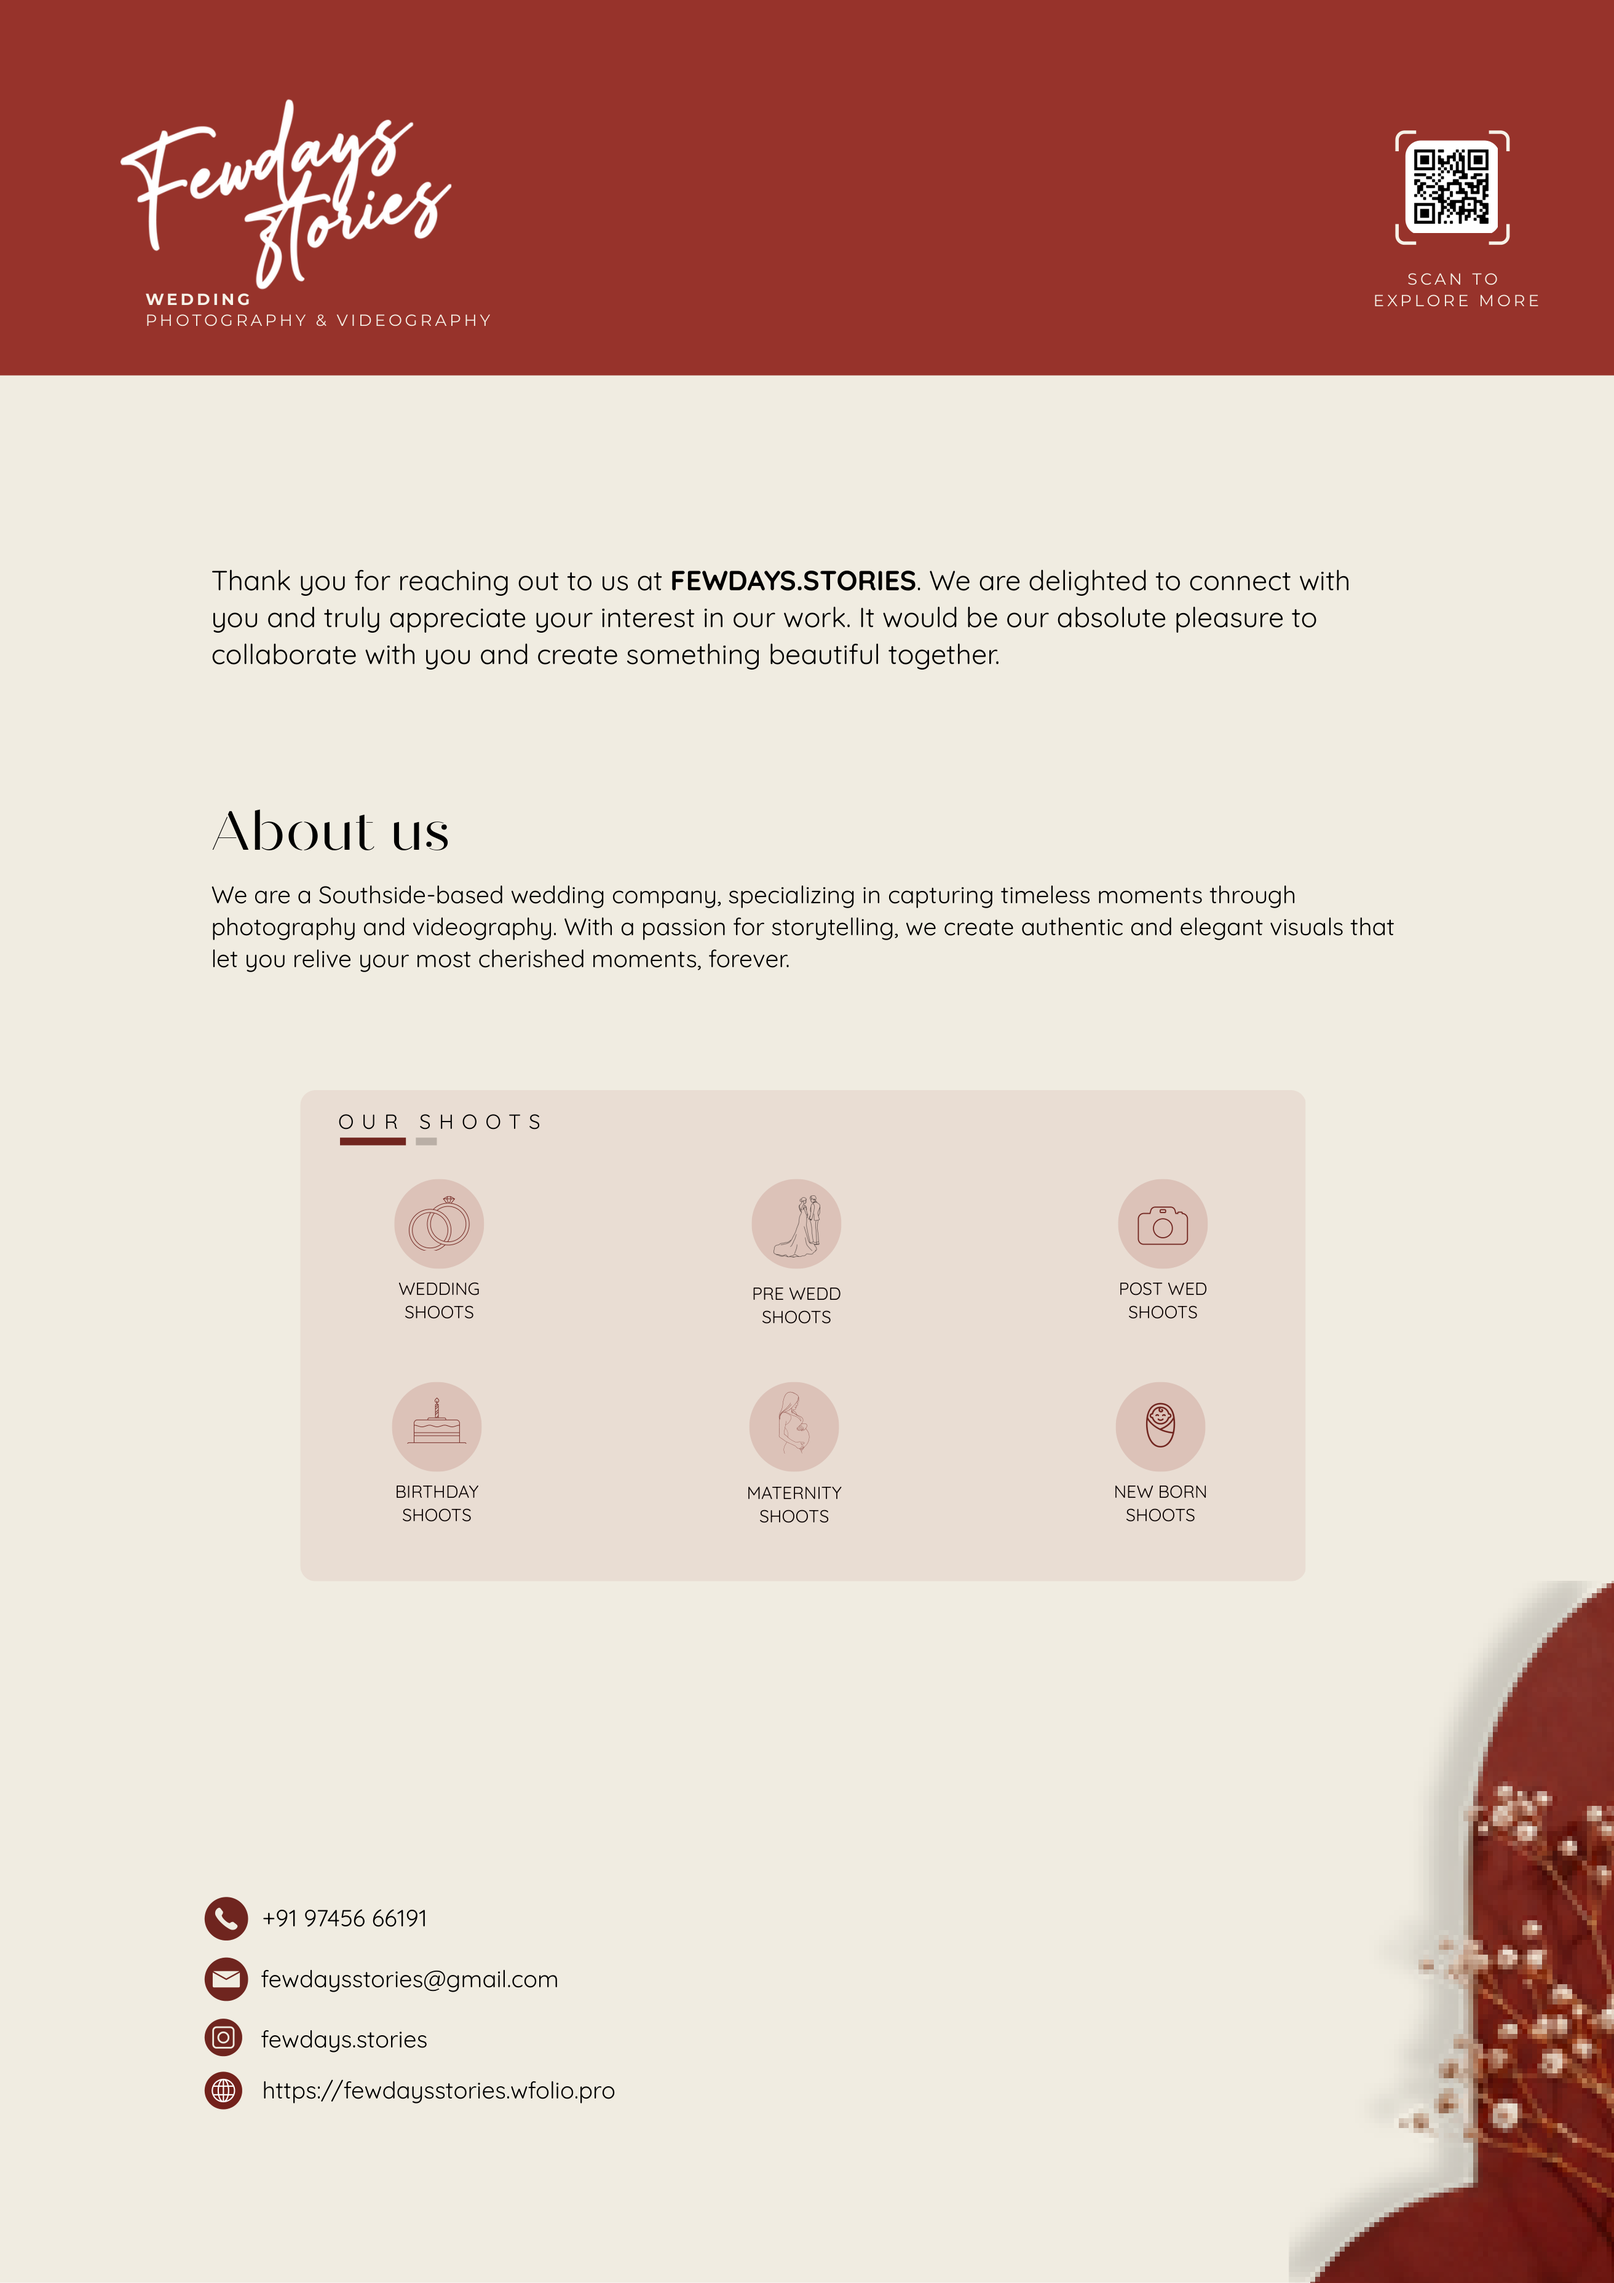
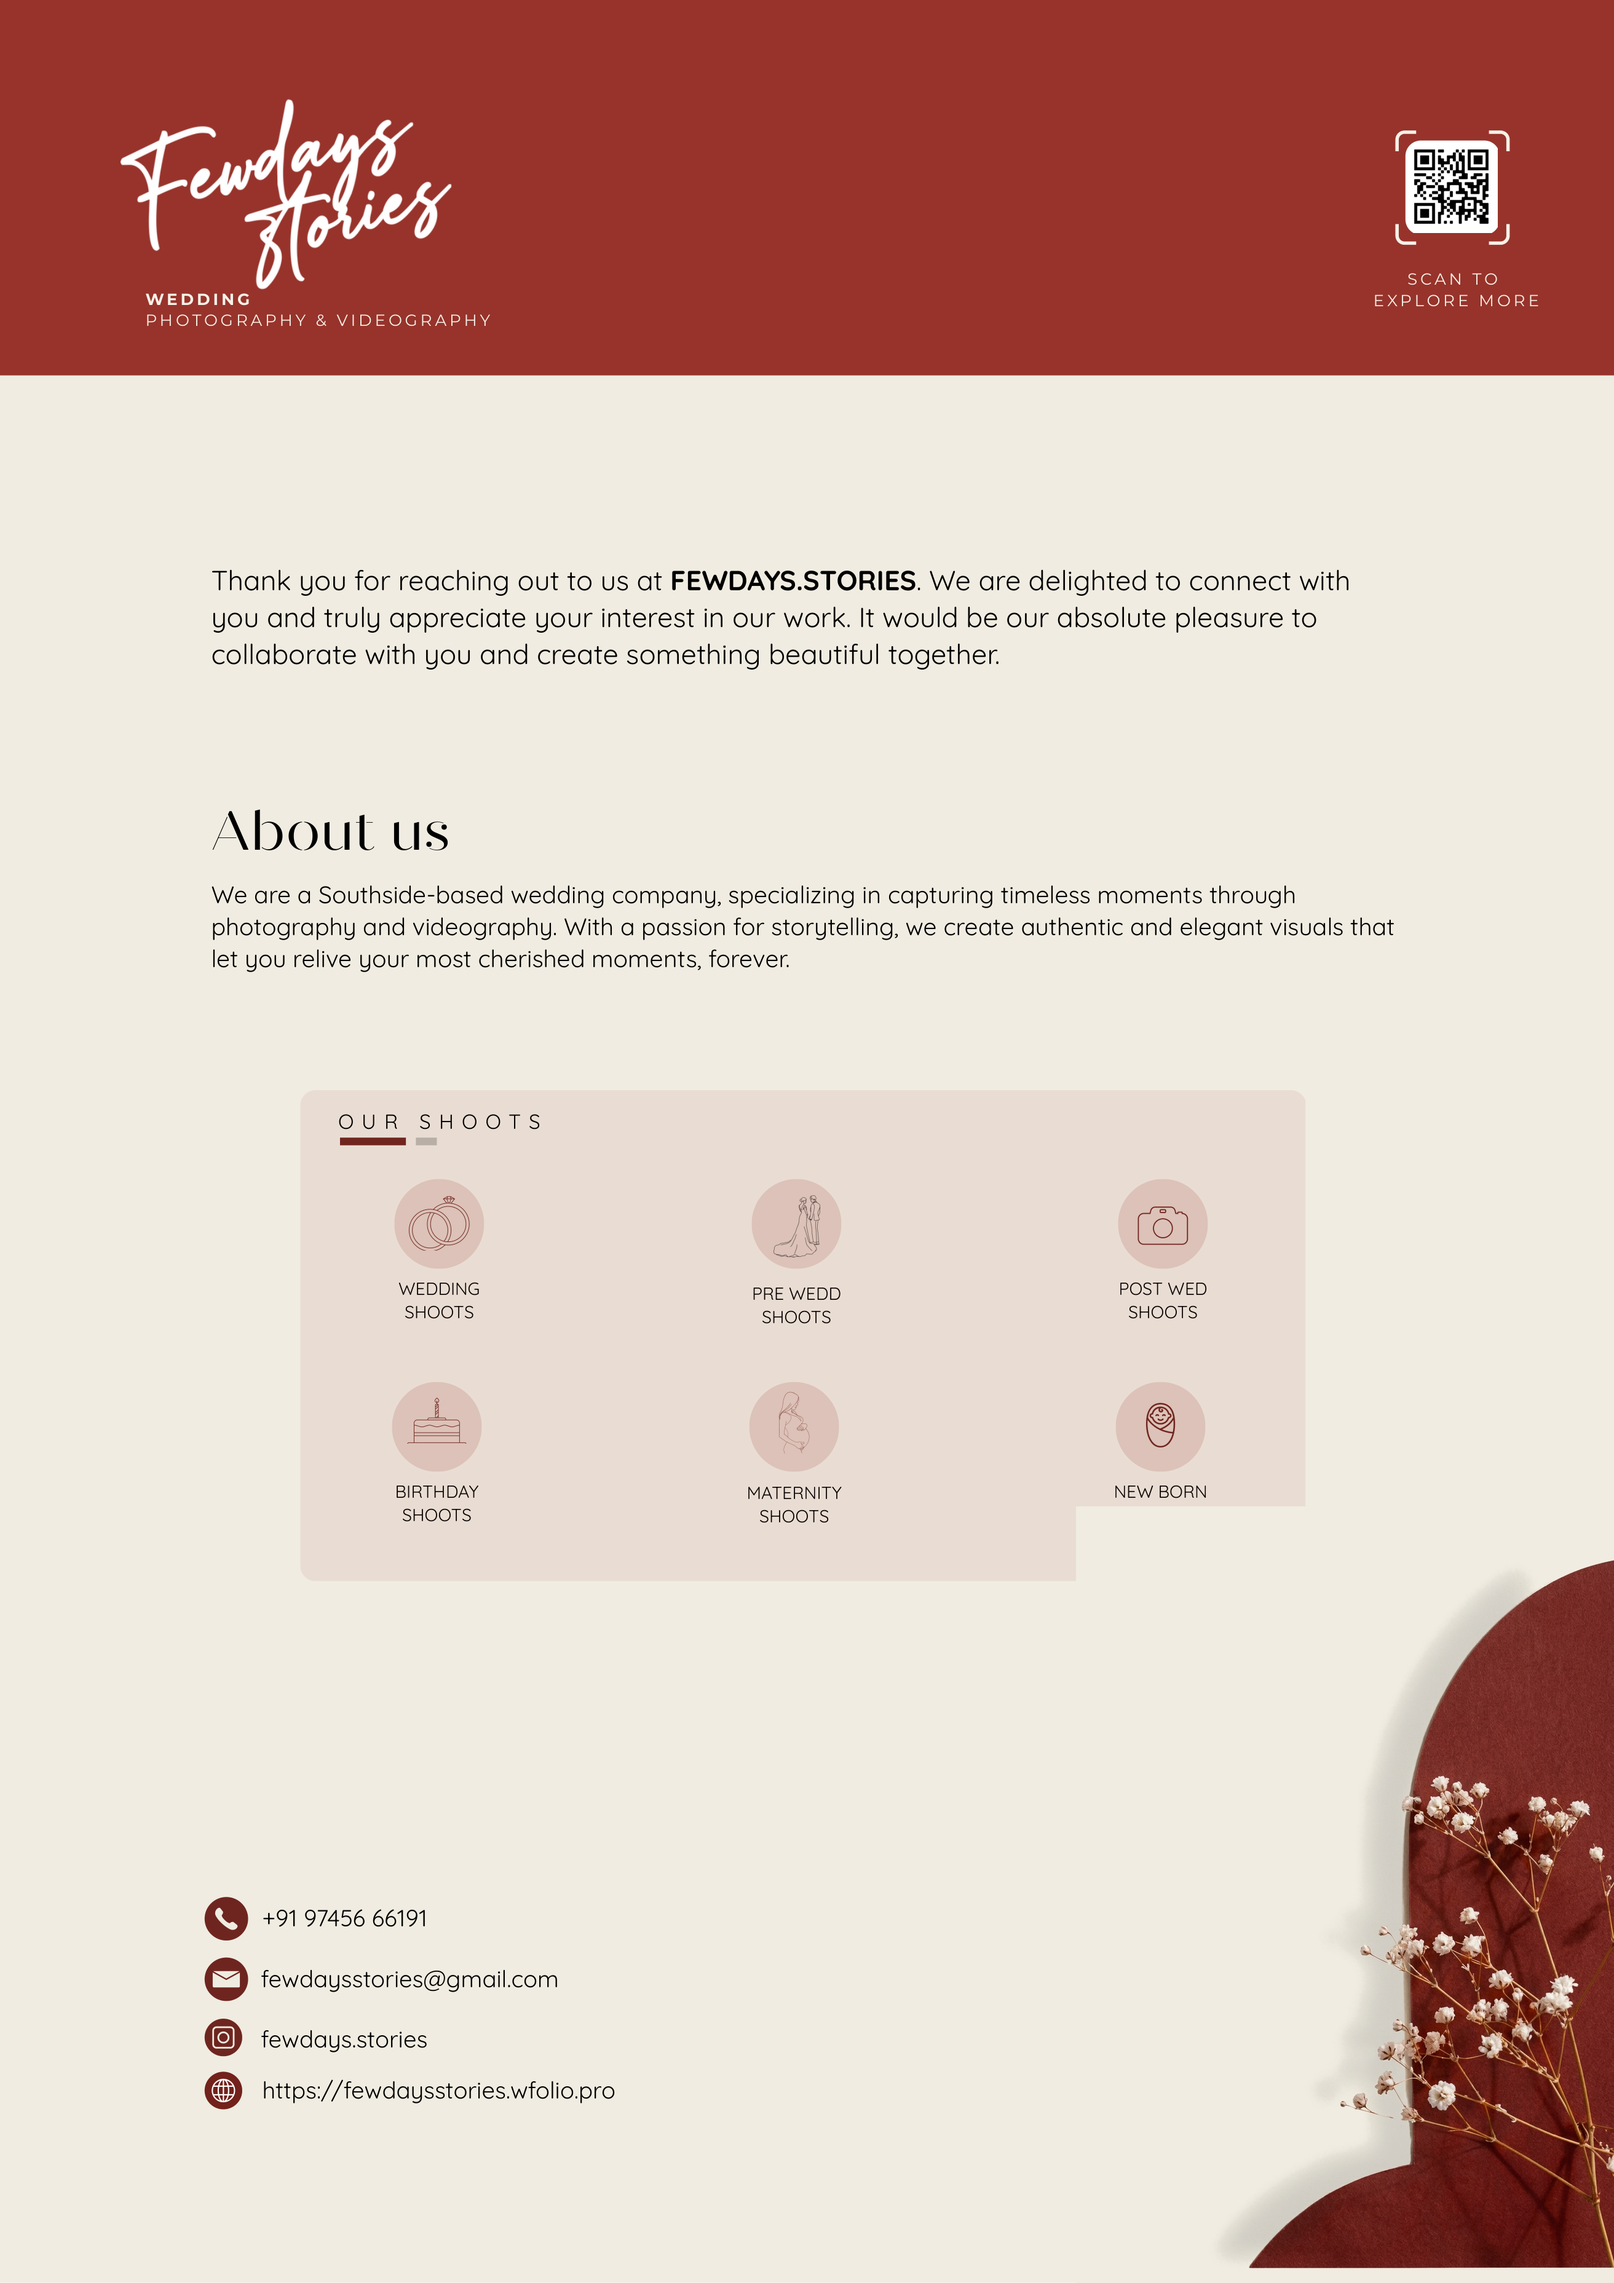
Enhance Fewdays quotation floral arch to ultra-high resolution

Changed region(s): [[0.7497, 0.6561, 1.0, 1.0]]

diff --git a/src/utils/pdf.js b/src/utils/pdf.js
@@ -6,6 +6,8 @@ import piktoriaPdfUrl from '../assets/PIKTORIA.pdf?url'
 import litheAdsPdfUrl from '../assets/LitheAds.pdf?url'
 import fewdaysPdfUrl from '../assets/FEWDAYS.pdf?url'
 import quicksandFontUrl from '../assets/Quicksand-SemiBold.ttf?url'
+import fewdaysPage1CleanBgUrl from '../assets/fewdays_page1_clean_bg.png'
+import fewdaysPage3CleanBgUrl from '../assets/fewdays_page3_clean_bg.png'
 
 const A4_WIDTH = 595.28
 const A4_HEIGHT = 841.89
@@ -69,14 +71,74 @@ export async function generateQuotationPdf(page2Element, company = 'naj', quotat
 
   const isFewdays = company === 'fewdays'
   const isLitheAds = company === 'litheads'
+
+  if (isFewdays) {
+    const finalDoc = await PDFDocument.create()
+    finalDoc.registerFontkit(fontkit)
+
+    let quicksandFont = null
+    try {
+      const fontBytes = await fetch(quicksandFontUrl).then((r) => r.arrayBuffer())
+      quicksandFont = await finalDoc.embedFont(fontBytes)
+    } catch (err) {
+      console.warn('Custom font embedding failed, using fallback:', err)
+    }
+
+    // Page 1: Ultra-high-resolution canvas with embedded photo-quality floral arch
+    const p1Bytes = await fetch(fewdaysPage1CleanBgUrl).then((r) => r.arrayBuffer())
+    const p1Img = await finalDoc.embedPng(p1Bytes)
+    const page1 = finalDoc.addPage([A4_WIDTH, A4_HEIGHT])
+    page1.drawImage(p1Img, { x: 0, y: 0, width: A4_WIDTH, height: A4_HEIGHT })
+
+    let clientName = quotation?.clientName?.trim()
+    if (!clientName) {
+      clientName = quotation?.brideName?.trim() || quotation?.groomName?.trim() || 'Safwan'
+    }
+    const greeting = clientName.toLowerCase().startsWith('hello ')
+      ? (clientName.endsWith(',') ? clientName : `${clientName},`)
+      : `Hello ${clientName},`
+
+    page1.drawText(greeting, {
+      x: 77.9,
+      y: 637.7,
+      size: 10.5,
+      ...(quicksandFont ? { font: quicksandFont } : {}),
+      color: rgb(0, 0, 0),
+    })
+
+    // Page 2: Custom customized page (HTML rendered to high-res image matching native template dimensions)
+    const canvas = await html2canvas(page2Element, {
+      scale: 3,
+      useCORS: true,
+      allowTaint: true,
+      logging: false,
+      backgroundColor: '#f0ece1',
+      windowWidth: 1190,
+      windowHeight: 1684,
+    })
+    const pngDataUrl = canvas.toDataURL('image/png', 1.0)
+    const pngBase64 = pngDataUrl.split(',')[1]
+    const pngBytes = Uint8Array.from(atob(pngBase64), (c) => c.charCodeAt(0))
+    const page2Image = await finalDoc.embedPng(pngBytes)
+    const page2 = finalDoc.addPage([A4_WIDTH, A4_HEIGHT])
+    page2.drawImage(page2Image, { x: 0, y: 0, width: A4_WIDTH, height: A4_HEIGHT })
+
+    // Page 3: Ultra-high-resolution canvas with embedded photo-quality floral arch
+    const p3Bytes = await fetch(fewdaysPage3CleanBgUrl).then((r) => r.arrayBuffer())
+    const p3Img = await finalDoc.embedPng(p3Bytes)
+    const page3 = finalDoc.addPage([A4_WIDTH, A4_HEIGHT])
+    page3.drawImage(p3Img, { x: 0, y: 0, width: A4_WIDTH, height: A4_HEIGHT })
+
+    const pdfBytes = await finalDoc.save()
+    return pdfBytes
+  }
+
   const templateUrl =
-    isFewdays
-      ? fewdaysPdfUrl
-      : isLitheAds
-        ? litheAdsPdfUrl
-        : company === 'piktoria'
-          ? piktoriaPdfUrl
-          : sourcePdfUrl
+    isLitheAds
+      ? litheAdsPdfUrl
+      : company === 'piktoria'
+        ? piktoriaPdfUrl
+        : sourcePdfUrl
   const sourceBytes = await fetch(templateUrl).then((r) => r.arrayBuffer())
   const sourceDoc = await PDFDocument.load(sourceBytes)
   const pages = sourceDoc.getPages()
@@ -86,7 +148,7 @@ export async function generateQuotationPdf(page2Element, company = 'naj', quotat
   }
 
   const canvas = await html2canvas(page2Element, {
-    scale: isFewdays ? 4 : 3,
+    scale: 3,
     useCORS: true,
     allowTaint: true,
     logging: false,
@@ -106,46 +168,7 @@ export async function generateQuotationPdf(page2Element, company = 'naj', quotat
   const [page1] = await finalDoc.copyPages(sourceDoc, [0])
   finalDoc.addPage(page1)
 
-  if (isFewdays) {
-    let clientName = quotation?.clientName?.trim()
-    if (!clientName) {
-      clientName = quotation?.brideName?.trim() || quotation?.groomName?.trim() || 'Safwan'
-    }
-
-    const greeting = clientName.toLowerCase().startsWith('hello ')
-      ? (clientName.endsWith(',') ? clientName : `${clientName},`)
-      : `Hello ${clientName},`
-
-    // Cover original 'Hello Safwan,' text with exact cream background rectangle
-    page1.drawRectangle({
-      x: 20,
-      y: 175,
-      width: 75,
-      height: 6,
-      color: rgb(0.9412, 0.9255, 0.8824),
-    })
-
-    try {
-      finalDoc.registerFontkit(fontkit)
-      const fontBytes = await fetch(quicksandFontUrl).then((r) => r.arrayBuffer())
-      const quicksandFont = await finalDoc.embedFont(fontBytes)
-      page1.drawText(greeting, {
-        x: 20.6,
-        y: 176.2,
-        size: 3.3,
-        font: quicksandFont,
-        color: rgb(0, 0, 0),
-      })
-    } catch (err) {
-      console.warn('Custom font embedding failed, using fallback:', err)
-      page1.drawText(greeting, {
-        x: 20.6,
-        y: 176.2,
-        size: 3.3,
-        color: rgb(0, 0, 0),
-      })
-    }
-  } else if (isLitheAds) {
+  if (isLitheAds) {
     let greeting = quotation?.greeting?.trim()
     if (!greeting) {
       const rawName =
